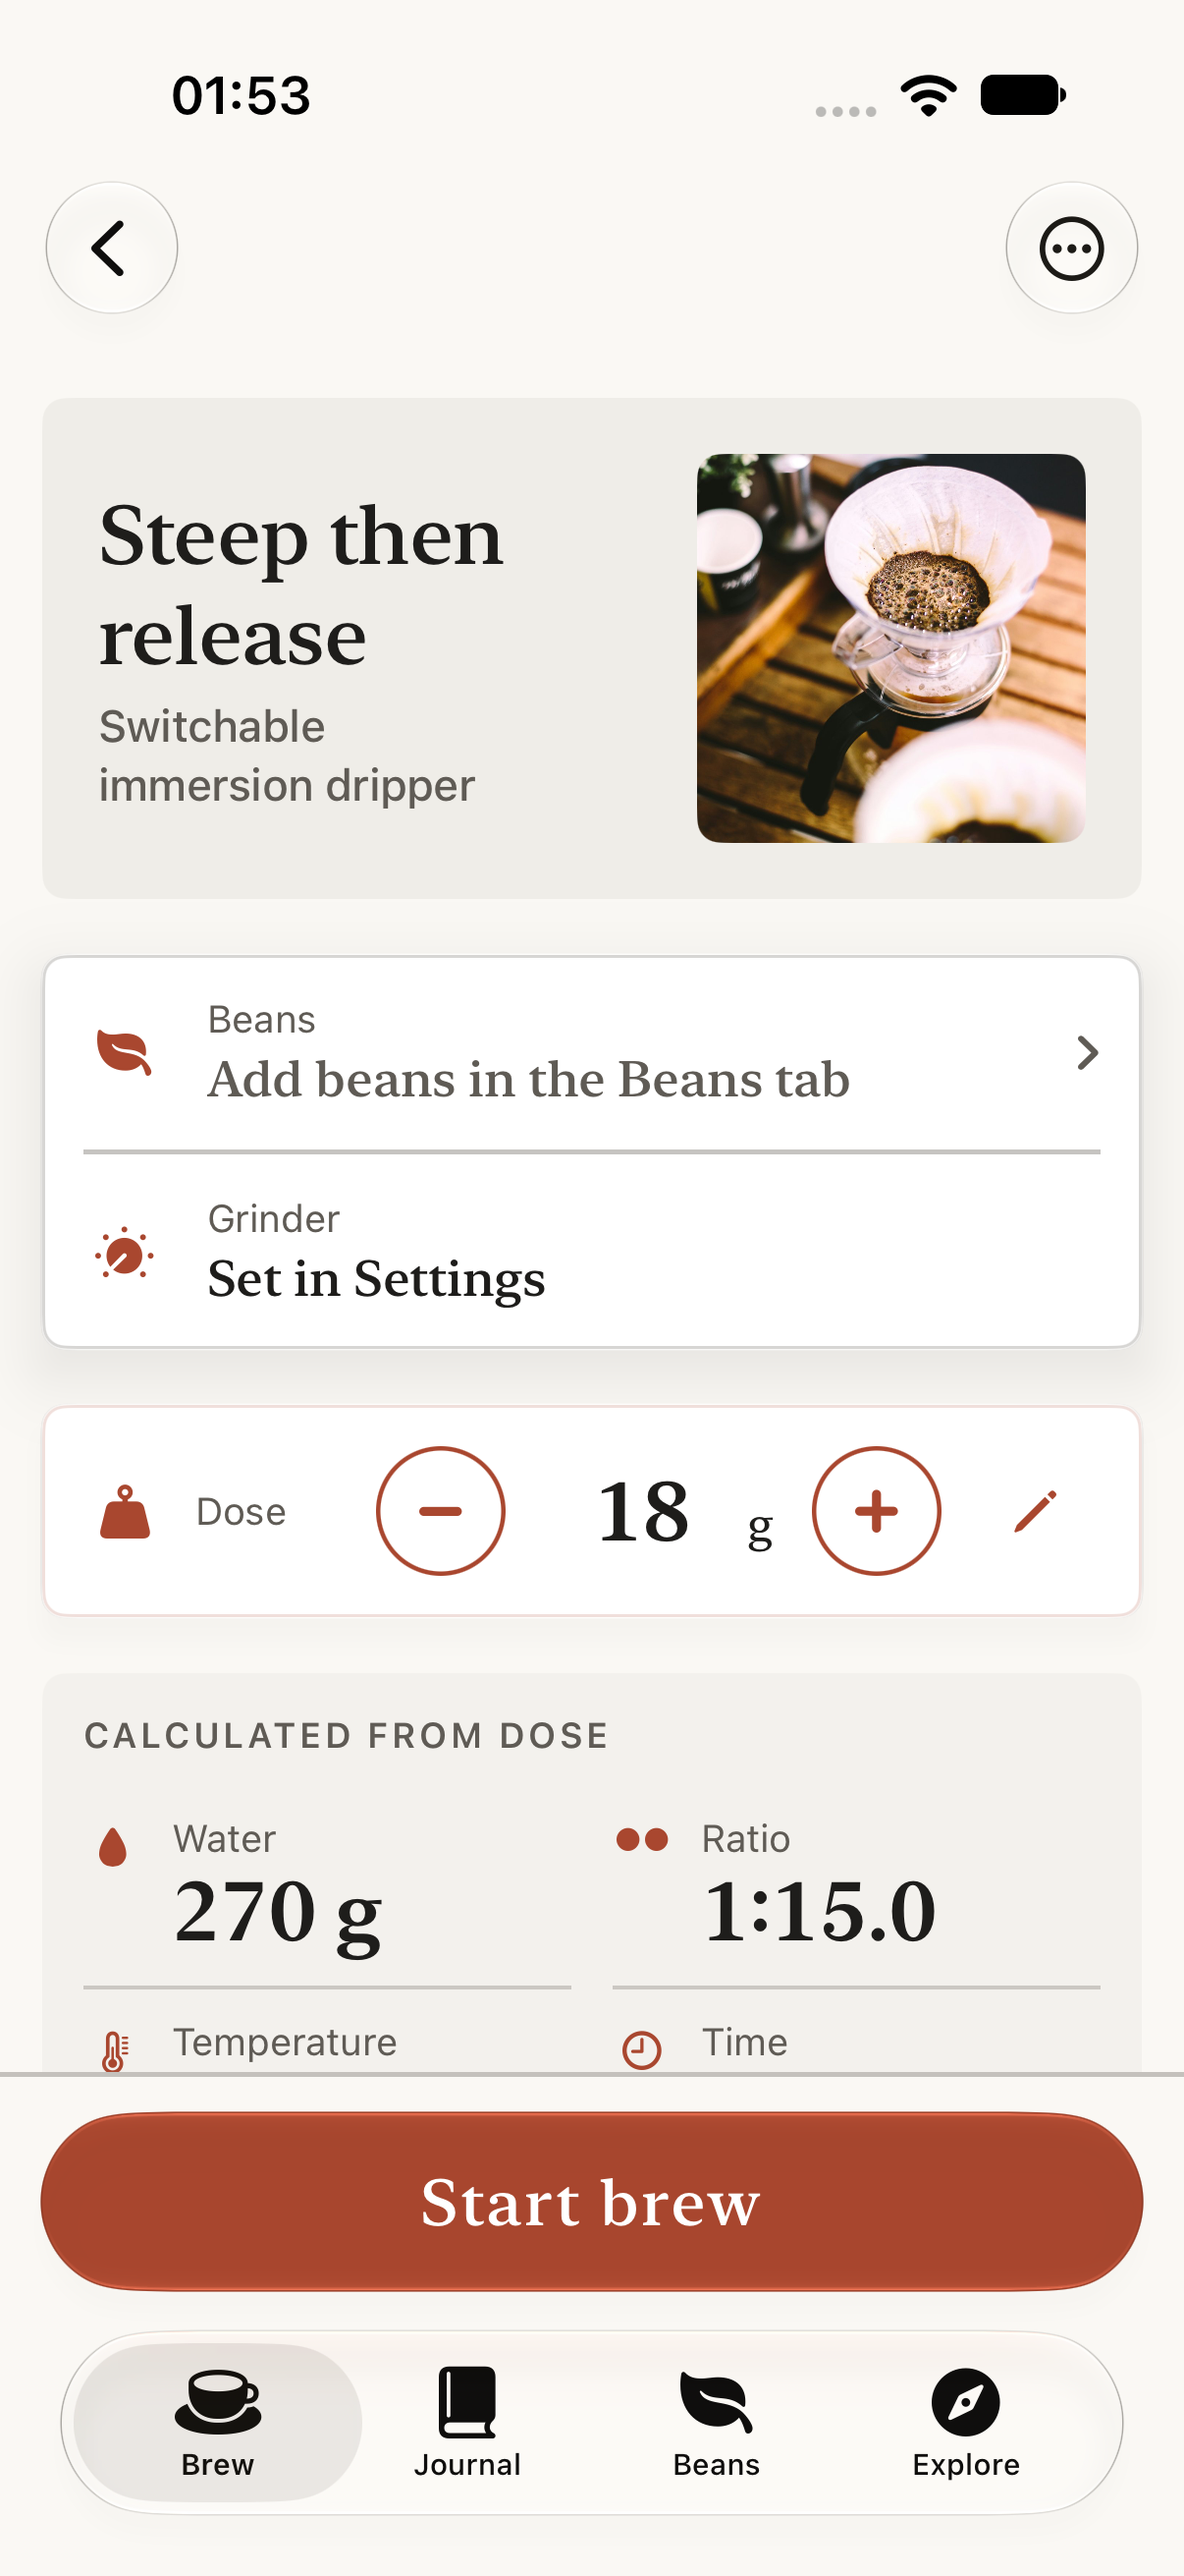
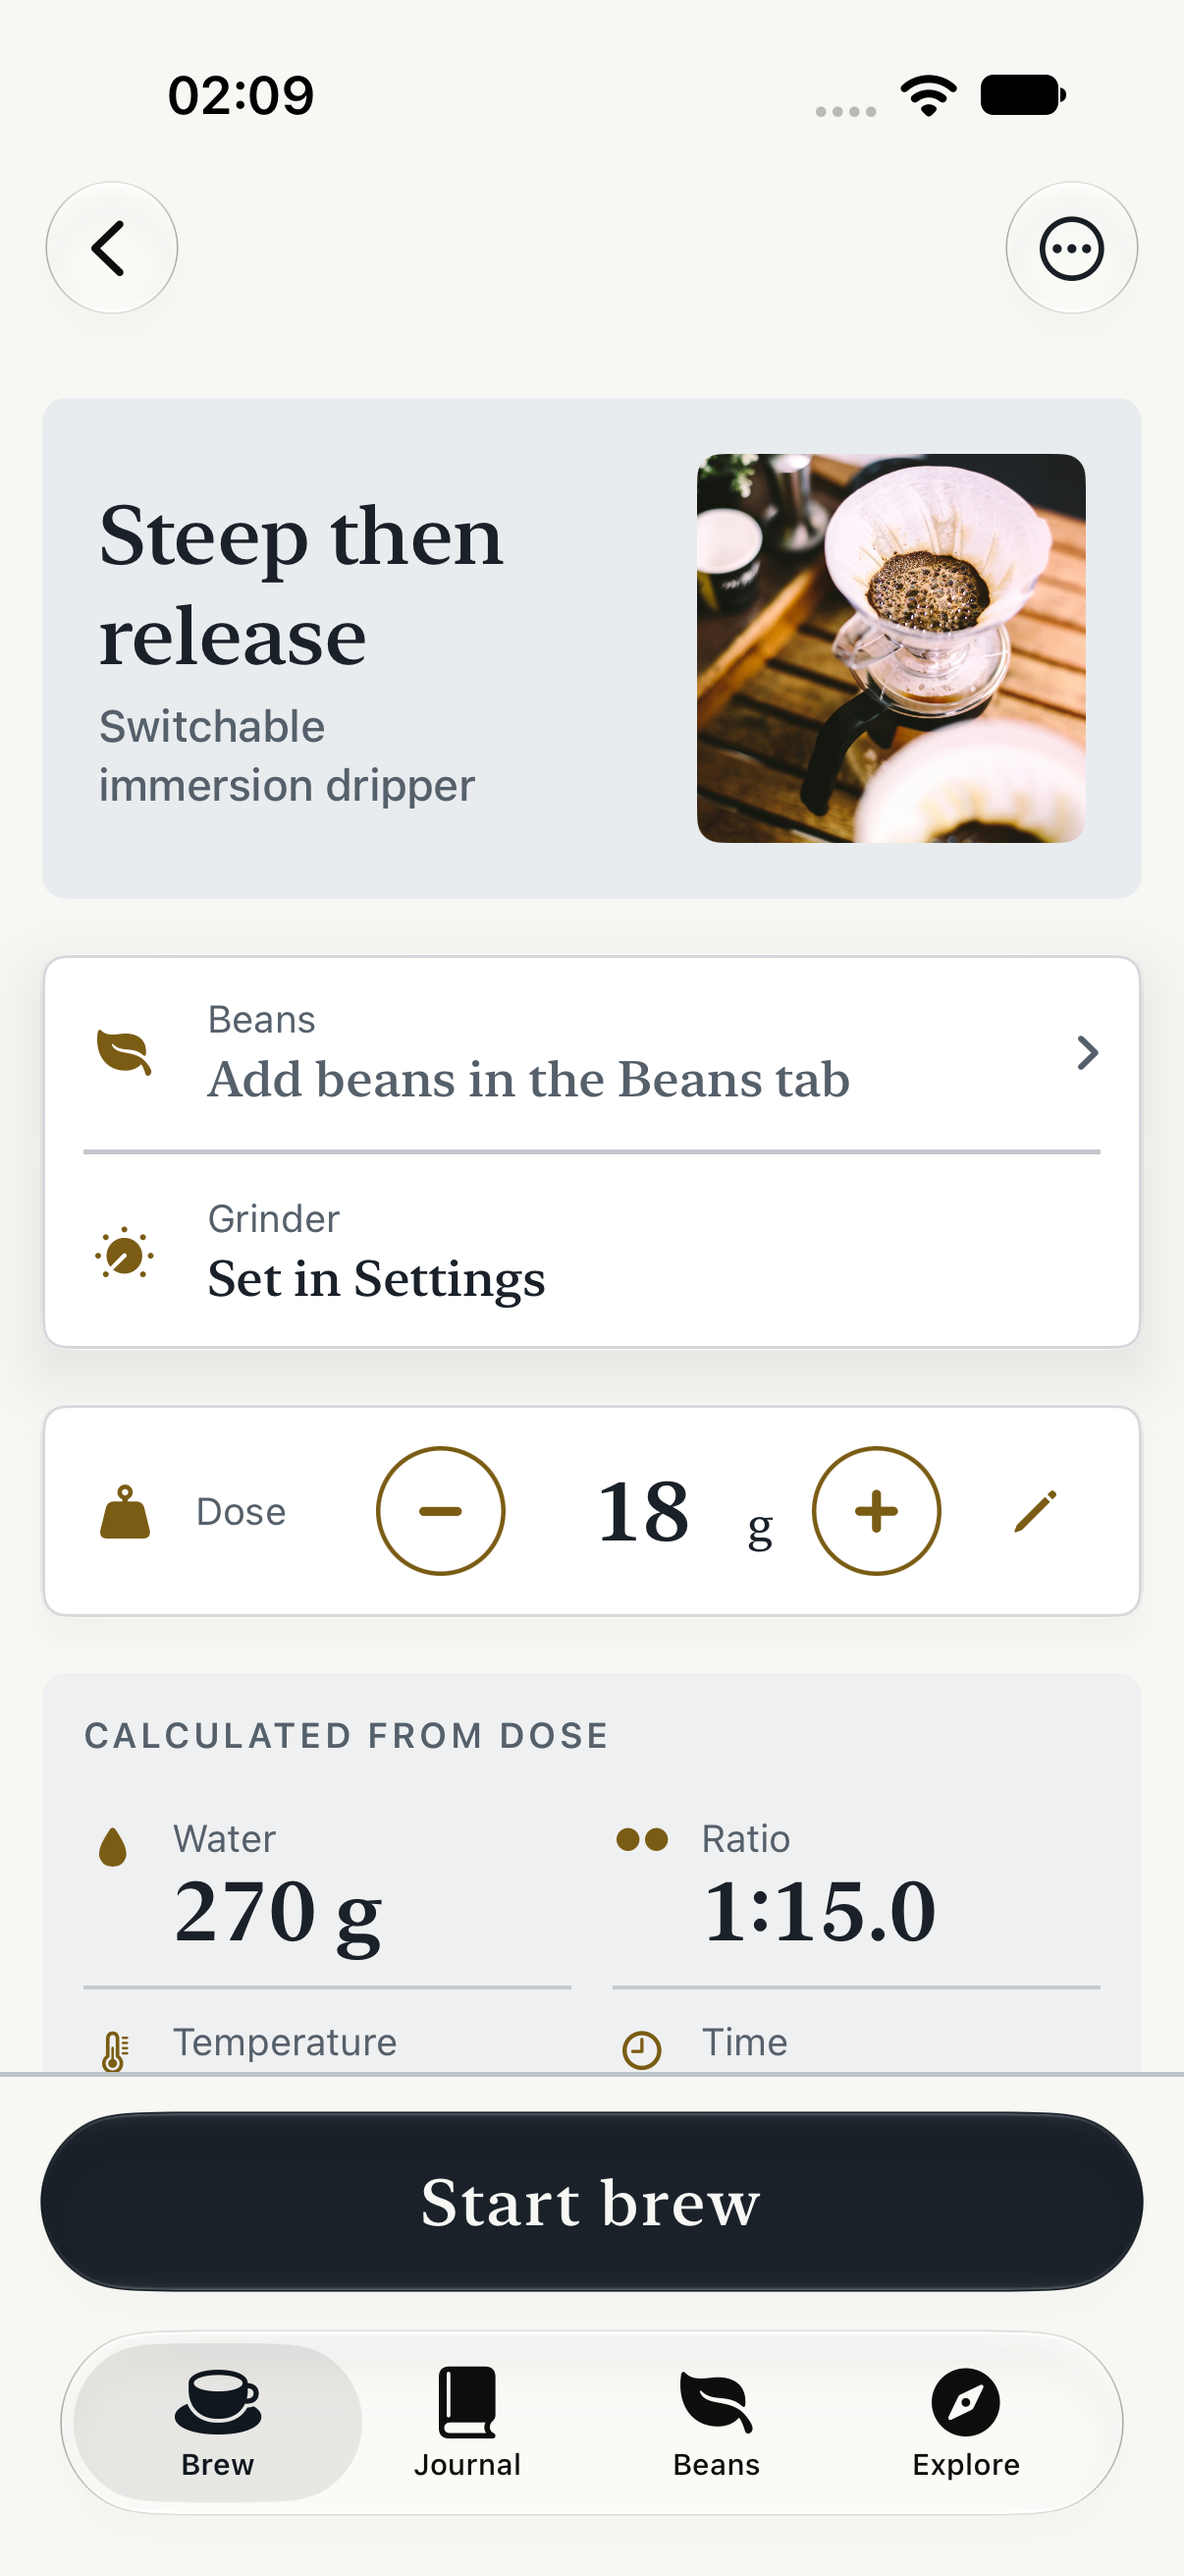
Morning Edition on ink with a brass accent; no terracotta: progress and rating rings follow each handoff look's accent

diff --git a/NextCup/DesignSystem/Tokens.swift b/NextCup/DesignSystem/Tokens.swift
@@ -375,13 +375,13 @@ enum AppStyle: String, CaseIterable, Identifiable {
         accent: P(0x2448C8, 0xFF9F5A))
     case .morningEdition:
       Palette(
-        bg: P(0xFAF8F4, 0x141414), paper: P(0xFFFFFF, 0x1E1E1F), steel: P(0x1E1D1B, 0x262628),
-        onSteel: P(0xFAF8F4, 0xF4F1EA), ink: P(0x1E1D1B, 0xF4F1EA), ink2: P(0x5F5B55, 0xB9B5AE),
-        line: P(0x8E8A84, 0x77746F), signal: P(0xA9472F, 0xF4F1EA),
-        onSignal: P(0xFFFFFF, 0x141414), signalOnSteel: P(0xE8A085, 0xE8A085),
-        kraft: P(0xEFEDE8, 0x262628), onKraft: P(0x1E1D1B, 0xF4F1EA),
+        bg: P(0xF7F7F4, 0x10151B), paper: P(0xFFFFFF, 0x18202A), steel: P(0x1A2129, 0x1F2935),
+        onSteel: P(0xF7F7F4, 0xF2F0EA), ink: P(0x1A2129, 0xF2F0EA), ink2: P(0x55606B, 0xB4BCC6),
+        line: P(0x85909B, 0x6E7A87), signal: P(0x1A2129, 0xF2F0EA),
+        onSignal: P(0xF7F7F4, 0x10151B), signalOnSteel: P(0xC9D3DE, 0xC9D3DE),
+        kraft: P(0xE9ECEF, 0x1F2935), onKraft: P(0x1A2129, 0xF2F0EA),
         error: P(0x9A1B0A, 0xFF9C85), ok: P(0x2A6A2A, 0x9FE0A8),
-        accent: P(0xA9472F, 0xE08A6E))
+        accent: P(0x7A5C14, 0xD9B36A))
     case .precisionAtelier:
       Palette(
         bg: P(0xF5EBD7, 0x101B24), paper: P(0xFBF4E6, 0x18242E), steel: P(0x101B24, 0x1F2D38),

diff --git a/NextCup/DesignSystem/Bloom.swift b/NextCup/DesignSystem/Bloom.swift
@@ -6,7 +6,12 @@ import SwiftUI
 /// Bloom (and Daily, built on it) draw rings instead of steel panels.
 extension DS {
   static var isBloom: Bool { [.bloom, .daily].contains(AppStyle.current) }
-  static let crema = Color(P(0xB8652A, 0xE0A06A))
+  /// The ring and progress colour. The handoff looks use their own accent, so no terracotta
+  /// shows up where the owner asked for none.
+  static var crema: Color {
+    [.sundayStudio, .morningEdition, .precisionAtelier].contains(AppStyle.current)
+      ? accent : Color(P(0xB8652A, 0xE0A06A))
+  }
   static let espresso = Color(P(0x4A2C1D, 0xD9C2AE))
   static let sage = Color(P(0x7C8C6A, 0xA9BC97))
   static let ringTrack = Color(P(0xEDE3D6, 0x2E241C))
